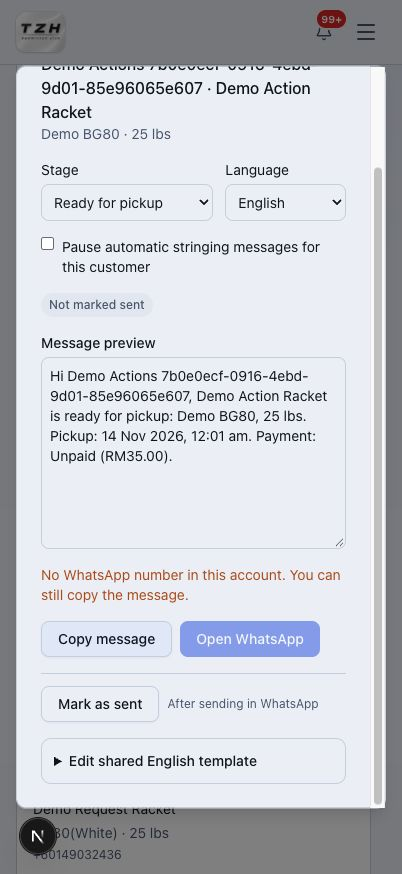
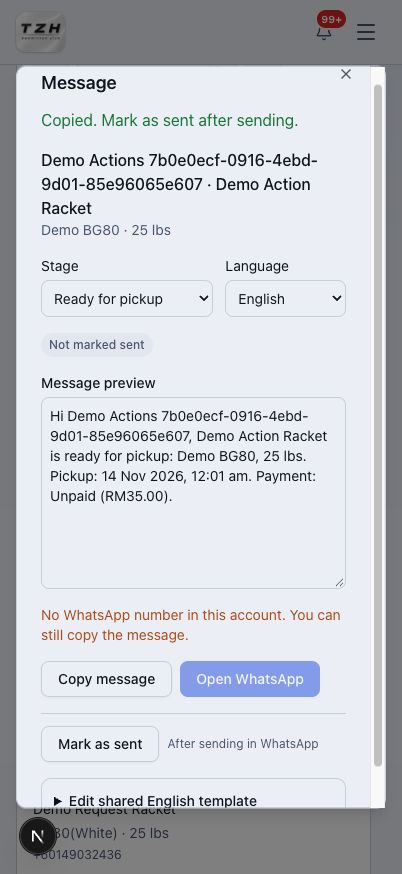
docs: standardize stringing reminders wording

diff --git a/mcp/stringing-outreach.md b/mcp/stringing-outreach.md
@@ -1,73 +1,3 @@
-# Stringing reminders with Codex
+# Stringing reminders
 
-**Administrator · Local preview; awaiting deployment and a supervised WhatsApp test.**
-[Open Stringing](https://tzhsports.vercel.app/admin/stringing)
-
-<details>
-<summary><strong>Choose payment reminder timing</strong></summary>
-
-In the connected customer workspace, ask:
-
-> Use $tzh-stringing-outreach. Set the first payment reminder to two days after
-> receipt, and the second follow-up to three days after the first message was sent.
-
-Review both settings before saving. These are examples: choose your own waiting
-periods, or disable either reminder. Timing is shared across the centre and starts
-disabled until configured. A scheduled run reads these saved settings.
-
-</details>
-
-<details>
-<summary><strong>Preview the next messages</strong></summary>
-
-> Use $tzh-stringing-outreach. Show a dry-run count for payment reminders, ready
-> rackets, feedback requests and due restring reminders. Do not send anything.
-
-Payment reminders stop after payment. Pickup notices apply to Ready rackets.
-Feedback is requested once, three days after collection, while unanswered.
-Restring follows each job's saved reminder date. The assistant reports any
-skipped work and incomplete scans.
-
-</details>
-
-<details>
-<summary><strong>Set up scheduled WhatsApp sending</strong></summary>
-
-After the release, use an owner-controlled test recipient first. Choose WhatsApp
-Web with connected browser access, or the installed desktop app with computer
-access, and sign in. Agree on recipients, message stages/templates, Malaysia
-contact hours and the per-run limit. Keep the computer and session available.
-Have TZH verify the test send and dashboard result before activating the schedule.
-
-The MCP functions prepare the message/link and track the outcome. Codex uses the
-approved WhatsApp application to send. Opening a link does not send a message.
-Messages use the saved EN/ZH/MS preference. Already marked-sent stages are skipped. Use one sender and one job per customer
-per run. If sending succeeds but recording is lost, a later run may send again.
-
-Existing tokens inherit Stringing reminders permission when the release migration
-runs; no replacement token is needed. Expired/revoked tokens remain invalid. New
-tokens select **Stringing reminders** in MCP Access Tokens.
-
-![Stringing reminders permission](../images/stringing/reminders-permission-desktop.jpg)
-
-</details>
-
-<details>
-<summary><strong>Pause messages or check sent status</strong></summary>
-
-In a job's **Message** dialog, select **Pause automatic stringing messages for
-this customer**. It applies across that customer's stringing jobs.
-
-![Pause automatic stringing messages on mobile](../images/stringing/outreach-pause-mobile.jpg)
-
-Codex records successful sends using the same **Mark as sent** status in the job's
-**Message** dialog. Already marked-sent reminders are skipped. There is no separate
-recovery panel. If a message was not sent, its status stays unchanged for a later
-run. Check WhatsApp if the outcome is unclear: a send followed by a lost status
-update may cause a duplicate.
-
-![Existing message and sent status](../images/stringing/reminders-sent-status-desktop.jpg)
-
-![Existing message controls on mobile](../images/stringing/reminders-sent-status-mobile.jpg)
-
-</details>
+The guide is now at [Stringing reminders with Codex](stringing-reminders.md).

diff --git a/mcp/stringing-reminders.md b/mcp/stringing-reminders.md
@@ -1,0 +1,69 @@
+# Stringing reminders with Codex
+
+**Administrator · Local preview; awaiting deployment and a supervised WhatsApp test.**
+[Open Stringing](https://tzhsports.vercel.app/admin/stringing)
+
+<details>
+<summary><strong>Choose waiting periods in your scheduler prompt</strong></summary>
+
+Include your timing when setting up the Codex schedule, for example:
+
+> Use $tzh-stringing-reminders. Send the first payment reminder two days after
+> receipt, and the second reminder four days after the first recorded send.
+
+These are examples; choose your own whole-day waiting periods. Timing stays in
+that schedule's prompt. There are no website reminder-policy settings to save.
+To disable a stage, leave it out of the schedule. If timing is missing, Codex asks
+before processing that payment stage. Changing one schedule does not change others.
+
+</details>
+
+<details>
+<summary><strong>Preview the next messages</strong></summary>
+
+> Use $tzh-stringing-reminders. Show a dry-run count for payment reminders, ready
+> rackets, feedback requests and due restring reminders. Do not send anything.
+
+Payment reminders stop after payment. Pickup notices apply to Ready rackets.
+Feedback is requested once, three days after collection, while unanswered.
+Restring follows each job's saved reminder date. The assistant reports any
+skipped work and incomplete scans.
+
+</details>
+
+<details>
+<summary><strong>Set up scheduled WhatsApp sending</strong></summary>
+
+After the release, use an owner-controlled test recipient first. Choose WhatsApp
+Web with connected browser access, or the installed desktop app with computer
+access, and sign in. Agree on recipients, message stages/templates, Malaysia
+contact hours and the per-run limit. Keep the computer and session available.
+Have TZH verify the test send and dashboard result before activating the schedule.
+
+The MCP functions prepare the message/link and track the outcome. Codex uses the
+approved WhatsApp application to send. Opening a link does not send a message.
+Messages use the saved EN/ZH/MS preference. Already marked-sent stages are skipped. Use one sender and one job per customer
+per run. If sending succeeds but recording is lost, a later run may send again.
+
+Existing tokens inherit Stringing reminders permission when the release migration
+runs; no replacement token is needed. Expired/revoked tokens remain invalid. New
+tokens select **Stringing reminders** in MCP Access Tokens.
+
+![Stringing reminders permission](../images/stringing/reminders-permission-desktop.jpg)
+
+</details>
+
+<details>
+<summary><strong>Check sent status</strong></summary>
+
+Codex records successful sends using the same **Mark as sent** status in the job's
+**Message** dialog. Already marked-sent reminders are skipped. There is no separate
+recovery panel. If a message was not sent, its status stays unchanged for a later
+run. Check WhatsApp if the outcome is unclear: a send followed by a lost status
+update may cause a duplicate.
+
+![Existing message and sent status](../images/stringing/reminders-sent-status-desktop.jpg)
+
+![Existing message controls on mobile](../images/stringing/reminders-sent-status-mobile.jpg)
+
+</details>

diff --git a/mcp/functions.md b/mcp/functions.md
@@ -41,15 +41,13 @@ Use the matching [task guide](README.md) for steps and examples. For connection/
 
 All require an active administrator and **Stringing reminders**. Existing tokens
 inherit this permission on release; invalid tokens remain invalid. Sending still
-requires approved WhatsApp computer/browser access. See [the guide](stringing-outreach.md).
+requires approved WhatsApp computer/browser access. See [the guide](stringing-reminders.md).
 
 | Function | What it does |
 |---|---|
-| `get_stringing_outreach_policy` | Read the saved payment reminder delays. |
-| `update_stringing_outreach_policy` | Save confirmed first/second waiting periods or disable them. |
-| `list_stringing_outreach` | Find outstanding payment, pickup, feedback and restring messages. |
-| `create_stringing_outreach_feedback_request` | Create a missing due job feedback request once. |
-| `prepare_stringing_outreach` | Prepare the exact private message and WhatsApp link. |
-| `finish_stringing_outreach` | Mark the existing job/stage sent after observing the outgoing message. |
+| **Find stringing reminders** | Find due messages using payment waiting days from your scheduler prompt. |
+| **Create stringing feedback request** | Create a missing due job feedback request once. |
+| **Prepare stringing reminder** | Prepare the exact website-template message/link using the same prompt waiting days. |
+| **Mark stringing reminder as sent** | Mark the existing job/stage sent after observing the outgoing message. |
 
 MCP does not send the WhatsApp message. Opening a link does not prove it was sent.

diff --git a/website/stringing.md b/website/stringing.md
@@ -310,14 +310,9 @@ details. Staff still confirms the final fee and any grommet charges after inspec
 
 
 <details>
-<summary><strong>Pause scheduled messages or check sent status</strong></summary>
+<summary><strong>Check Codex reminder sent status</strong></summary>
 
 **Local preview; awaiting deployment and supervised WhatsApp setup.**
-Open a job's **Message** dialog and select **Pause automatic stringing messages
-for this customer** to pause all of their automatic stringing messages.
-
-![Pause a customer's scheduled messages](../images/stringing/outreach-pause-mobile.jpg)
-
 Codex uses the existing **Mark as sent** status in **Message**. It skips messages
 already marked sent. If a send was not recorded, a later run can retry; check
 WhatsApp when unsure because this may produce a duplicate. There is no separate
@@ -325,7 +320,6 @@ recovery panel. Run one sender at a time.
 
 ![Existing message and sent status](../images/stringing/reminders-sent-status-desktop.jpg)
 
-See [Stringing reminders with Codex](../mcp/stringing-outreach.md) to choose payment
-waiting periods and arrange supervised setup.
+See [Stringing reminders with Codex](../mcp/stringing-reminders.md) to put waiting periods in the scheduler prompt and arrange supervised setup.
 
 </details>

diff --git a/changelog/2026-11-09.md b/changelog/2026-11-09.md
@@ -2,4 +2,4 @@
 
 - [Apply lesson-window edits or cancellation to one session, upcoming sessions or the whole series](../website/admin-lessons.md#apply-an-action-to-a-recurring-series), with scope chosen after clicking Save Changes or Cancel Lesson and all-or-nothing saving. Awaiting deployment.
 
-- [Preview Codex-assisted payment, pickup, feedback and restring reminders](../mcp/stringing-outreach.md), using the existing **Mark as sent** status, with configurable payment waiting periods and inherited access for existing tokens. The separate recovery panel is removed. Awaiting deployment and supervised WhatsApp setup.
+- [Preview Codex-assisted payment, pickup, feedback and restring reminders](../mcp/stringing-reminders.md), using the existing **Mark as sent** status, with payment waiting periods in the scheduler prompt and inherited access for existing tokens. The separate recovery panel and customer pause control are removed. Awaiting deployment and supervised WhatsApp setup.

diff --git a/mcp/README.md b/mcp/README.md
@@ -11,7 +11,7 @@ Start with [access and setup](getting-started.md), then choose a task:
 | Award positive member points | [Point assignment](points.md) | Member points |
 | Change concrete lesson duration/price | [Lesson changes](lesson-management.md) | Lesson management |
 | Query or record attendance | [Attendance](attendance.md) | Lesson management |
-| Stringing reminders and feedback (awaiting deployment) | [Stringing reminders](stringing-outreach.md) | Stringing reminders; existing tokens inherit on release |
+| Stringing reminders and feedback (awaiting deployment) | [Stringing reminders](stringing-reminders.md) | Stringing reminders; existing tokens inherit on release |
 | Create already-paid manual invoices | [Manual invoices](manual-invoices.md) | Manual invoices |
 
 [Function reference](functions.md) lists the exact names and purpose of every current server function, including invoice compatibility tools.
